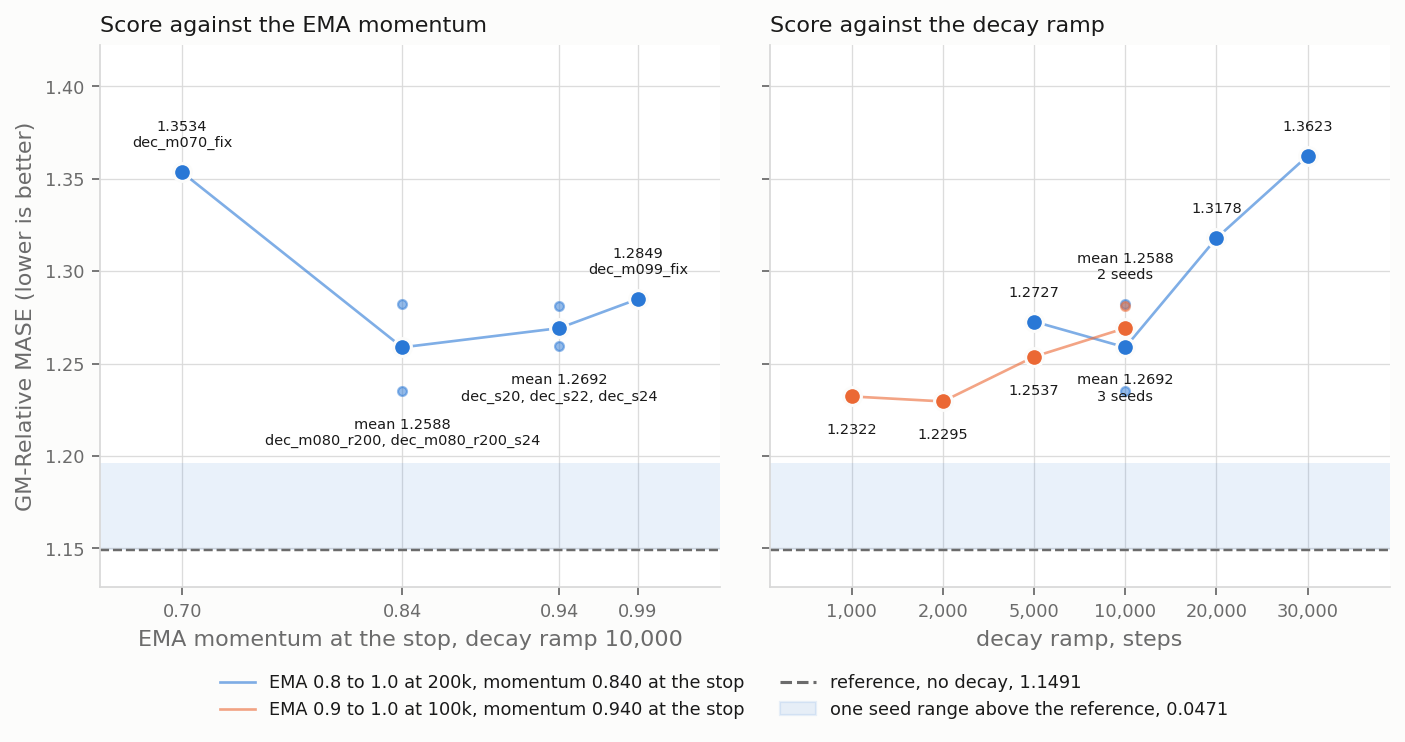
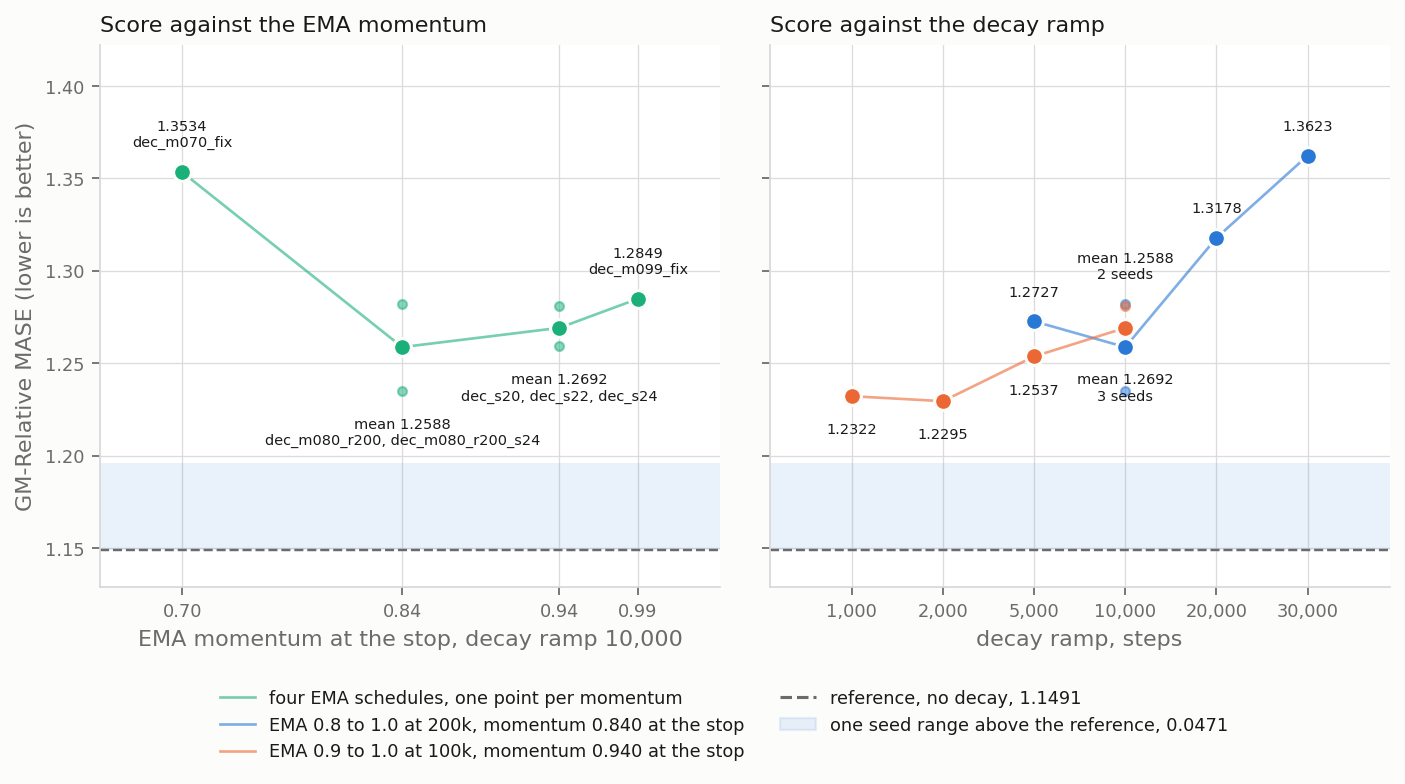
report(#409): the review pass, the axes legend, the axis baselines, the tables to the back
- axes.png: the momentum panel wears slot 3 with its own legend entry, so no
  schedule label claims a line that joins four schedules
- line 15 names the pair it compares, the best arm and the best arm at ramp 10,000
- the axes table states its two baselines, 1.2588 and 1.2692
- the AUC table states the rule it applies
- the symbol table header no longer claims the figure draws every row
- the axes and continuation tables move to the Tables section

diff --git a/reports/2026-08-22_rep_weight_decay/scripts/plot_axes.py b/reports/2026-08-22_rep_weight_decay/scripts/plot_axes.py
@@ -9,10 +9,12 @@ point is from the reference.
 
 Left: x is the momentum the arm holds at the 40,000-step stop, at the card's
 own decay ramp of 10,000 steps. A schedule with several seeds draws each seed
-as a small dot and their mean as the large one. Right: x is the decay ramp,
-one line per schedule the card varied it on. The two families take the first
-two categorical hues of the data-viz standard, and each carries its momentum
-as a legend entry, so identity is never the colour alone.
+as a small dot and their mean as the large one. The line joins four different
+schedules, so it takes categorical slot 3 of the data-viz standard and its own
+legend entry, never the colour of a schedule family. Right: x is the decay
+ramp, one line per schedule the card varied it on. The two families take the
+first two categorical hues, and each carries its momentum as a legend entry,
+so identity is never the colour alone.
 
 Both panels carry the reference (the best schedule with no decay) as a dashed
 line, and a band of the seed range above it. The seed range is the widest
@@ -45,6 +47,9 @@ spec.loader.exec_module(S)
 # The second ramp family, at momentum 0.940. Categorical slot 2 of the
 # data-viz standard, beside `S.SERIES`, which is slot 1.
 FAMILY_2 = "#eb6834"
+# The momentum panel. Its one line joins arms of four schedules, so it wears
+# categorical slot 3, a colour no schedule family claims in the legend.
+MOMENTUM = "#1baf7a"
 
 
 def frame(ax, x_label, band, x_ticks=None):
@@ -141,7 +146,8 @@ def main(argv=None):
     fig, (left, right) = plt.subplots(1, 2, figsize=(10.4, 4.4), sharey=True)
     frame(left, "EMA momentum at the stop, decay ramp 10,000", band,
           x_ticks=sorted(by_momentum))
-    series(left, by_momentum)
+    series(left, by_momentum, colour=MOMENTUM,
+           label="four EMA schedules, one point per momentum")
     # The ramps sit at equal spacing: 1,000 to 30,000 on a linear axis
     # squashes four of the six into one fifth of the panel.
     ramp_ticks = sorted({r for f in families.values() for r in f})
@@ -168,7 +174,7 @@ def main(argv=None):
     right.fill_between([], [], [], color=S.SERIES, alpha=0.10,
                        label=f"one seed range above the reference, {band:.4f}")
     fig.legend(frameon=False, fontsize=8, labelcolor=S.INK, ncol=2,
-               loc="lower center", bbox_to_anchor=(0.5, -0.10))
+               loc="lower center", bbox_to_anchor=(0.5, -0.16))
     fig.subplots_adjust(wspace=0.08)
     Path(args.out).parent.mkdir(parents=True, exist_ok=True)
     fig.savefig(args.out, dpi=160, bbox_inches="tight", facecolor=S.SURFACE)

diff --git a/reports/2026-08-22_rep_weight_decay/rep_weight_decay.md b/reports/2026-08-22_rep_weight_decay/rep_weight_decay.md
@@ -12,34 +12,13 @@ The best decay ramp depends on the momentum: a shorter ramp scores worse at 0.84
 
 *The measured grid, decay ramp by EMA momentum at the stop, colour by score.*
 
-The gap between the two best arms, 1.2295 and 1.2352, is 0.0057, 0.1 of the seed range of 0.0471, so this study cannot rank them.
+The gap between the best arm and the best arm at ramp 10,000, 1.2295 and 1.2352, is 0.0057, 0.1 of the seed range of 0.0471, so this study cannot rank them.
 
 ![axes](plots/axes.png)
 
 *Score against each axis: the momentum at ramp 10,000, and the ramp at each of the two momenta.*
 
-Gap of each axis point against the mean of its axis at ramp 10,000: 1.2588 over two seeds at momentum 0.840, 1.2692 over three seeds at momentum 0.940. Verdict against the seed range of 0.0471, with the rule of the gate table below:
-
-| axis | point | score | gap | gap over seed range | verdict |
-|---|---|---|---|---|---|
-| momentum, ramp 10,000 | 0.700 | 1.3534 | +0.0946 | 2.0 | rank |
-| momentum, ramp 10,000 | 0.940 | 1.2692, mean of three seeds | +0.0104 | 0.2 | inside the seed range |
-| momentum, ramp 10,000 | 0.990 | 1.2849 | +0.0261 | 0.6 | inside the seed range |
-| ramp, momentum 0.840 | 5,000 | 1.2727 | +0.0139 | 0.3 | inside the seed range |
-| ramp, momentum 0.840 | 20,000 | 1.3178 | +0.0591 | 1.3 | threshold |
-| ramp, momentum 0.840 | 30,000 | 1.3623 | +0.1036 | 2.2 | rank |
-| ramp, momentum 0.940 | 1,000 | 1.2322 | -0.0370 | 0.8 | inside the seed range |
-| ramp, momentum 0.940 | 2,000 | 1.2295 | -0.0397 | 0.8 | inside the seed range |
-| ramp, momentum 0.940 | 5,000 | 1.2537 | -0.0155 | 0.3 | inside the seed range |
-
 Both continuations scored worse at 80,000 steps than at 40,000, and the two stops differ in the momentum as well as in the step count. The EMA schedule ramps to 1.0 at 100,000 steps, so the momentum at the stop is 0.940 at 40,000 and 0.980 at 80,000.
-
-Score of the two arms carried to 80,000 steps, each resumed from its own 40,000-step checkpoint and optimizer state (`results/scores.csv`):
-
-| arm | decay ramp, steps | momentum at 40,000 | score at 40,000 | momentum at 80,000 | score at 80,000 | change | change over seed range |
-|---|---|---|---|---|---|---|---|
-| dec_m090r100_ramp2k | 2,000 | 0.940 | 1.2295 | 0.980 | 1.2473 | +0.0178 | 0.4 |
-| dec_m090r100_ramp1k | 1,000 | 0.940 | 1.2322 | 0.980 | 1.2381 | +0.0059 | 0.1 |
 
 ![auc](plots/auc.png)
 
@@ -51,7 +30,7 @@ Score of the two arms carried to 80,000 steps, each resumed from its own 40,000-
 
 Over steps 20,000 to 40,000, 12 of the 13 scored arms reduce their total loss. Over the last 10,000 steps, six arms have a positive slope and seven a negative one (`results/loss_slope.csv`).
 
-| term in the figure | definition |
+| symbol | definition |
 |---|---|
 | `L_align, reduced` | `L_align` is the alignment term of the loss, the student against the EMA teacher. The figure draws the residual `(loss - rep_w * l_rep - sigreg_e - sigreg_h) / align_w` |
 | `sigreg_e`, `sigreg_h` | the two SIGReg regularisation terms of the loss, each at weight 1.0 (`notes/loss_decomposition.md`) |
@@ -61,7 +40,7 @@ Over steps 20,000 to 40,000, 12 of the 13 scored arms reduce their total loss. O
 
 ## Tables
 
-Score of each arm at the 40,000-step stop, by EMA schedule, decay ramp and seed (`scripts/arms.tsv`); last column: the same schedule with no decay, at the arm's seed where the reference study ran it, else at the seed named in the cell.
+Score of each arm at the 40,000-step stop, by EMA schedule, decay ramp and seed (`scripts/arms.tsv`). Last column: the same schedule with no decay, at the arm's seed where the reference study ran it, else at the seed named in the cell.
 
 | arm | EMA schedule | momentum at the stop | decay ramp, steps | seed | score | same schedule, no decay |
 |---|---|---|---|---|---|---|
@@ -81,7 +60,7 @@ Score of each arm at the 40,000-step stop, by EMA schedule, decay ramp and seed 
 | dec_m099_fix | 0.99 fixed | 0.990 | 10,000 | 20260520 | 1.2849 | not run |
 | reference | 0.9 to 1.0 at 100k | 0.940 | no decay | 20260524, 20260520 | | 1.1491, 1.1507 |
 
-Gaps against the seed range of 0.0471, the range of `dec_m080_r200` and `dec_m080_r200_s24`, the widest pair of repeat seeds in this study (`results/rank_gate.tsv`). Verdict rule: a gap at or under the seed range is noise, a gap under twice the seed range is a threshold, and a gap of twice the seed range or more is a rank. Column 4: the comparator's own seed range from `reports/2026-08-19_ema_momentum_k32/ema_momentum_k32.md`, 1.1782 to 1.3214 over three counted seeds of `0.8 to 1.0 at 200k`; a gap inside it is not a rank.
+Gaps against the seed range of 0.0471, the range of `dec_m080_r200` and `dec_m080_r200_s24`, the widest pair of repeat seeds in this study (`results/rank_gate.tsv`). Verdict rule: a gap at or under the seed range is noise, a gap under twice the seed range is a threshold, and a gap of twice the seed range or more is a rank. Column 4: the comparator's own seed range from `reports/2026-08-19_ema_momentum_k32/ema_momentum_k32.md`, 1.1782 to 1.3214 over three counted seeds of `0.8 to 1.0 at 200k`. A gap inside it is not a rank.
 
 | comparison | gap | gap over seed range | seed range of the no-decay comparator | verdict |
 |---|---|---|---|---|
@@ -91,7 +70,28 @@ Gaps against the seed range of 0.0471, the range of `dec_m080_r200` and `dec_m08
 | best arm 1.2295 against the second 1.2322 | +0.0027 | 0.1 | | noise |
 | best arm 1.2295 against the best arm at ramp 10,000, 1.2352 | +0.0057 | 0.1 | | noise |
 
-Contrastive AUC per run that passed the warm-up (`results/auc_verdicts.tsv`), with the floor the lowest rolling median over every leg of the run. The figure also draws two runs this table leaves out: `dec_s23` and `dec_s25`.
+Gap of each axis point against the baseline of its axis. The momentum axis and the ramp axis at 0.840 use 1.2588, the mean of two seeds at momentum 0.840 and ramp 10,000. The ramp axis at 0.940 uses 1.2692, the mean of three seeds at momentum 0.940 and ramp 10,000. Verdict with the rule of the gate table above, against the seed range of 0.0471.
+
+| axis | point | score | gap | gap over seed range | verdict |
+|---|---|---|---|---|---|
+| momentum, ramp 10,000 | 0.700 | 1.3534 | +0.0946 | 2.0 | rank |
+| momentum, ramp 10,000 | 0.940 | 1.2692, mean of three seeds | +0.0104 | 0.2 | inside the seed range |
+| momentum, ramp 10,000 | 0.990 | 1.2849 | +0.0261 | 0.6 | inside the seed range |
+| ramp, momentum 0.840 | 5,000 | 1.2727 | +0.0139 | 0.3 | inside the seed range |
+| ramp, momentum 0.840 | 20,000 | 1.3178 | +0.0591 | 1.3 | threshold |
+| ramp, momentum 0.840 | 30,000 | 1.3623 | +0.1036 | 2.2 | rank |
+| ramp, momentum 0.940 | 1,000 | 1.2322 | -0.0370 | 0.8 | inside the seed range |
+| ramp, momentum 0.940 | 2,000 | 1.2295 | -0.0397 | 0.8 | inside the seed range |
+| ramp, momentum 0.940 | 5,000 | 1.2537 | -0.0155 | 0.3 | inside the seed range |
+
+Score of the two arms carried to 80,000 steps, each resumed from its own 40,000-step checkpoint and optimizer state (`results/scores.csv`):
+
+| arm | decay ramp, steps | momentum at 40,000 | score at 40,000 | momentum at 80,000 | score at 80,000 | change | change over seed range |
+|---|---|---|---|---|---|---|---|
+| dec_m090r100_ramp2k | 2,000 | 0.940 | 1.2295 | 0.980 | 1.2473 | +0.0178 | 0.4 |
+| dec_m090r100_ramp1k | 1,000 | 0.940 | 1.2322 | 0.980 | 1.2381 | +0.0059 | 0.1 |
+
+Contrastive AUC per run the study scored, plus the run the gate stopped and the two continuations (`results/auc_verdicts.tsv`), with the floor the lowest rolling median over every leg of the run. The figure also draws two runs this table leaves out: `dec_s23` and `dec_s25`.
 
 | run | momentum at the stop | AUC floor | floor step | last AUC | last step | verdict |
 |---|---|---|---|---|---|---|
